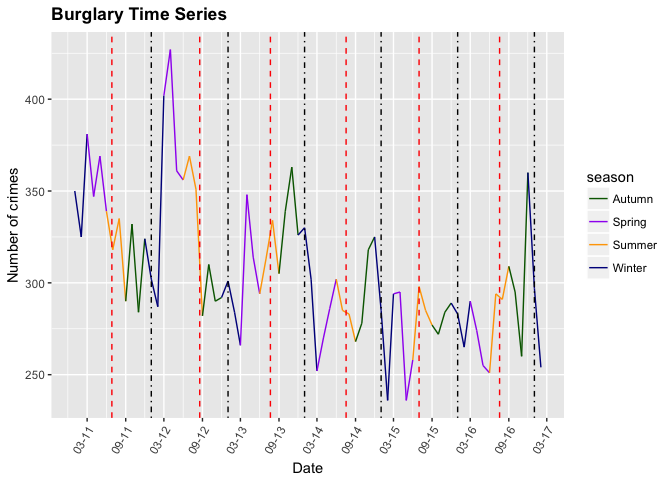
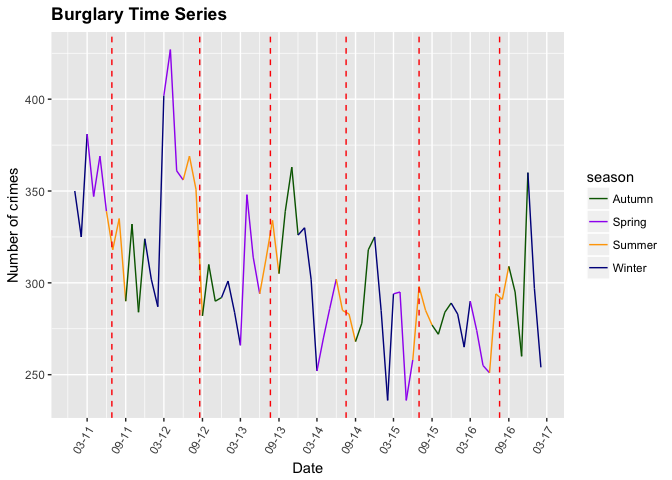
Removed vertical black lines from line plots

diff --git a/Exploratory_Data_Analysis.md b/Exploratory_Data_Analysis.md
@@ -120,7 +120,7 @@ Plotting a time series using geom\_bar() suggests anti-social behaviour peaks ea
 
 ![](Exploratory_Data_Analysis_files/figure-markdown_github/unnamed-chunk-10-1.png)
 
-The anti-social behaviour will be analysed separately to determine patterns. Seasonal colours are set using a vector so the line segments can be individually coloured. Date is converted for time series use. A line plot is created with vertical lines to indicate the beginning of each year (black lines) and the day with the highest temperature (red lines). Dataframe hottest.day created with maximum temperature for each year.
+The anti-social behaviour will be analysed separately to determine patterns. Seasonal colours are set using a vector so the line segments can be individually coloured. Date is converted for time series use. A line plot is created with vertical lines to indicate the day with the highest temperature (red lines). Dataframe hottest.day created with maximum temperature for each year.
 
 ``` r
 season.cols <- c("Summer" = "orange", "Autumn" = "darkgreen", "Winter" = "darkblue", "Spring" = "purple")
